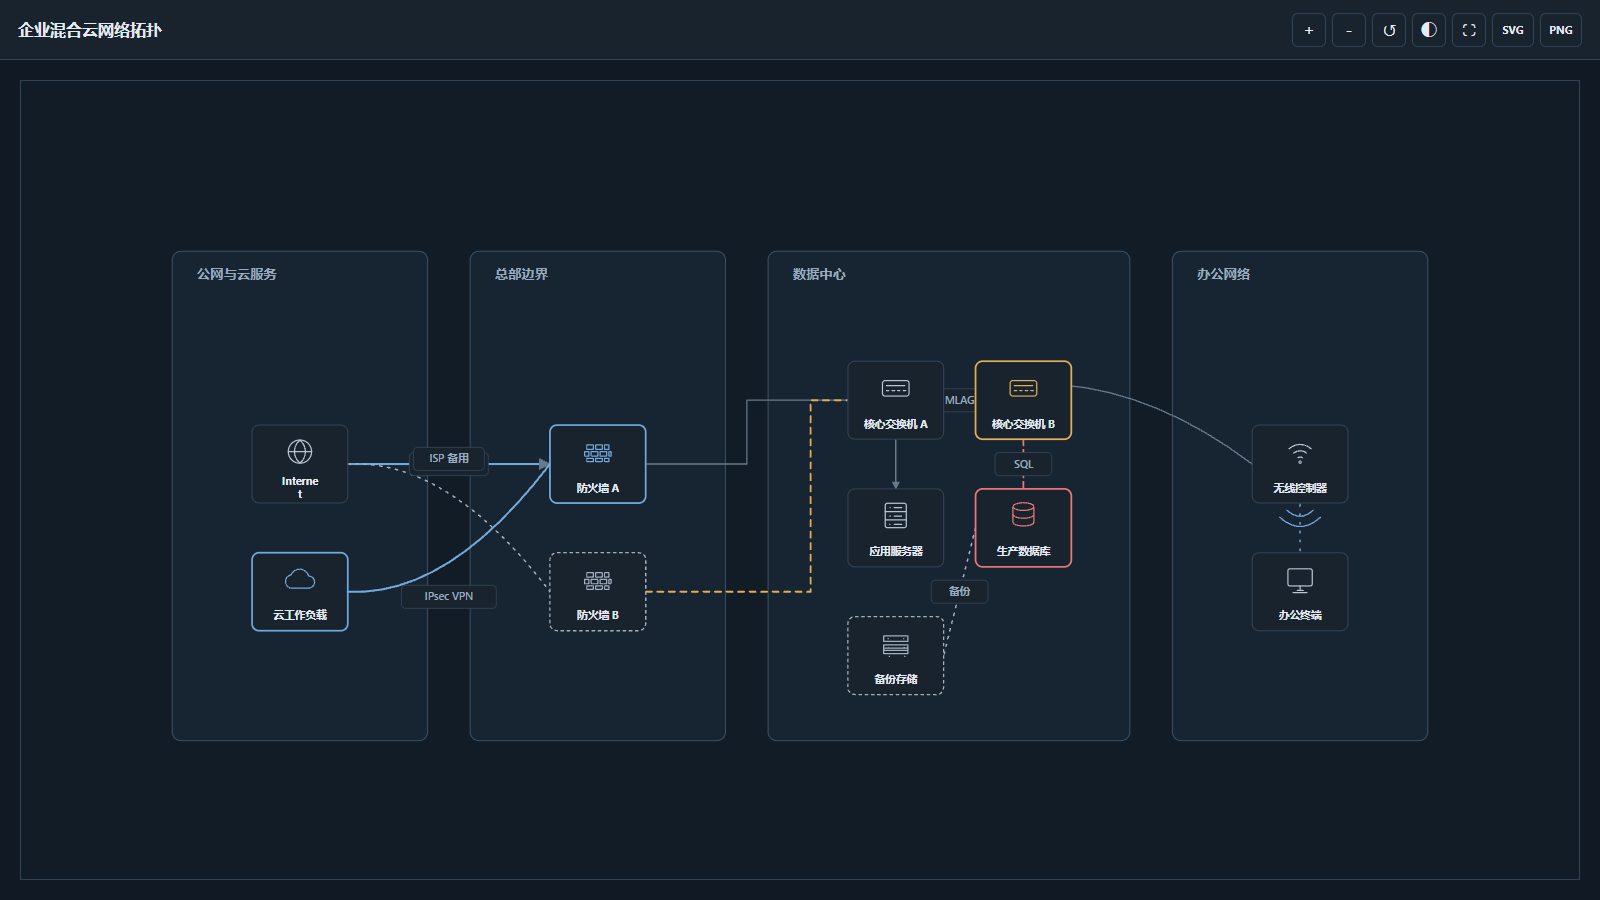
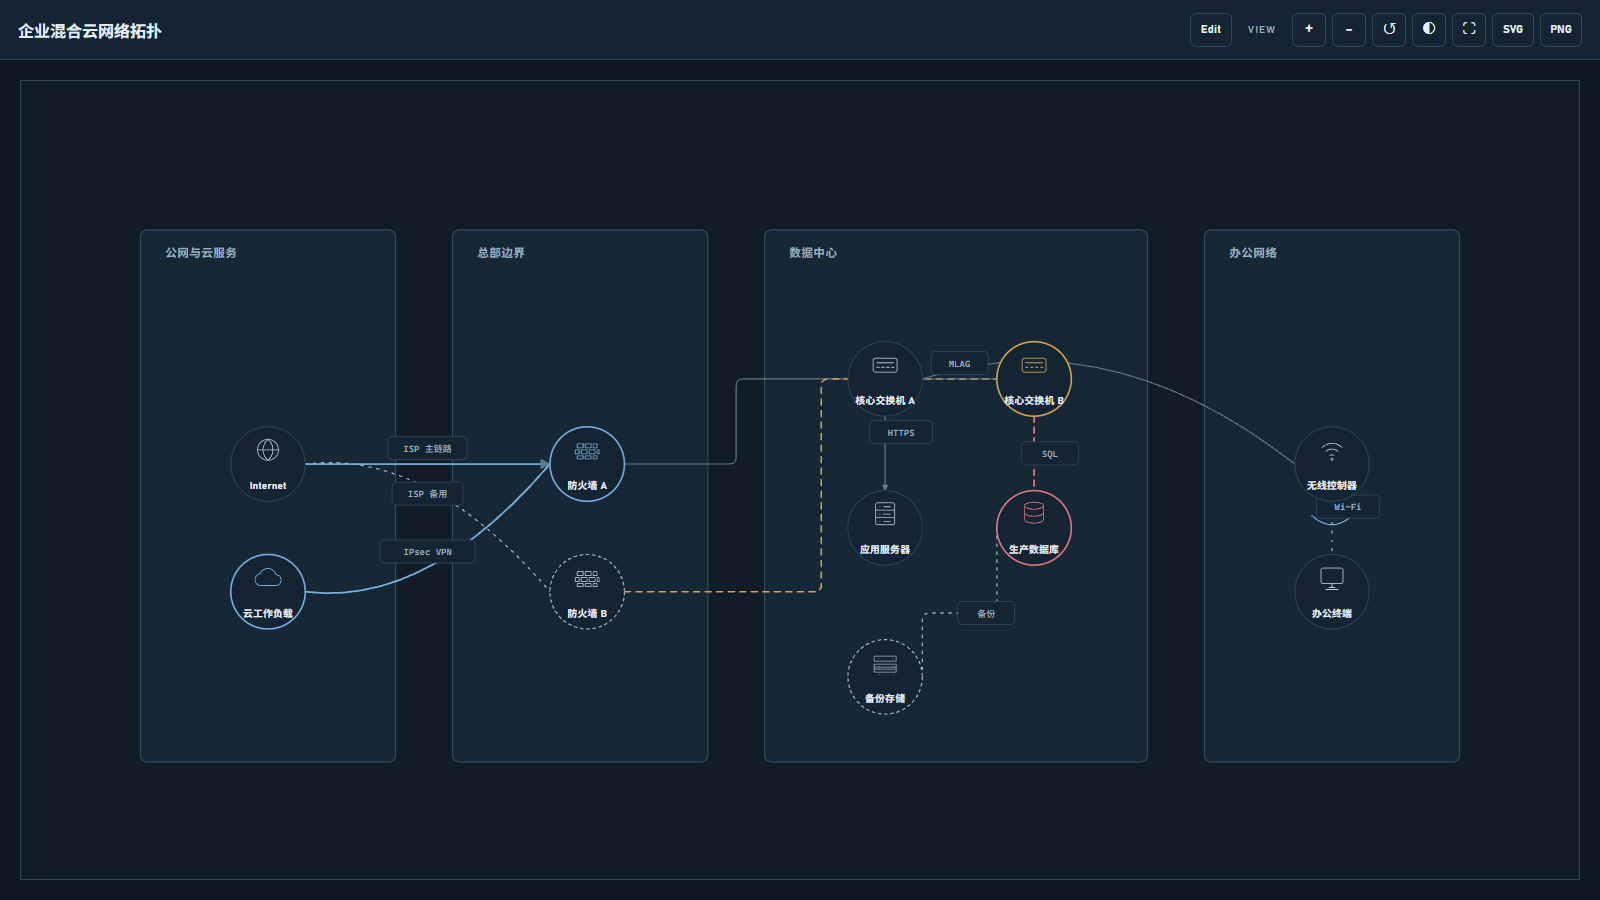
Fix curve label alignment and refresh examples

diff --git a/scripts/render_topology.py b/scripts/render_topology.py
@@ -438,6 +438,14 @@ def path_midpoint(points: list[tuple[float, float]]) -> tuple[float, float]:
     return points[-1]
 
 
+def quadratic_midpoint(start: tuple[float, float], control: tuple[float, float], end: tuple[float, float]) -> tuple[float, float]:
+    """Return the geometric midpoint of a quadratic Bézier connector."""
+    return (
+        0.25 * start[0] + 0.5 * control[0] + 0.25 * end[0],
+        0.25 * start[1] + 0.5 * control[1] + 0.25 * end[1],
+    )
+
+
 def orthogonal_points(start: tuple[float, float], end: tuple[float, float], waypoints: list[dict[str, Any]]) -> list[tuple[float, float]]:
     points = [start]
     for waypoint in waypoints:
@@ -524,7 +532,8 @@ def edge_path(source: dict[str, Any], target: dict[str, Any], style: str, waypoi
         else:
             bow = max(48, min(132, abs(tx - sx) * 0.24 + abs(ty - sy) * 0.16))
             control_x, control_y = mid_x, (sy + ty) / 2 - bow if sy <= ty else (sy + ty) / 2 + bow
-        return f"M {sx:.1f} {sy:.1f} Q {control_x:.1f} {control_y:.1f} {tx:.1f} {ty:.1f}", control_x, control_y, (sx, sy), angle
+        label_x, label_y = quadratic_midpoint((sx, sy), (control_x, control_y), (tx, ty))
+        return f"M {sx:.1f} {sy:.1f} Q {control_x:.1f} {control_y:.1f} {tx:.1f} {ty:.1f}", label_x, label_y, (sx, sy), angle
     if waypoints:
         points = orthogonal_points((sx, sy), (tx, ty), waypoints)
         lx, ly = path_midpoint(points)
@@ -924,8 +933,9 @@ def editor_script() -> str:
       const midX = (start.x + end.x) / 2;
       const bow = Math.max(48, Math.min(132, Math.abs(end.x - start.x) * .24 + Math.abs(end.y - start.y) * .16));
       const control = waypoints[0] || { x: midX, y: (start.y + end.y) / 2 - (start.y <= end.y ? bow : -bow) };
-      const handlePoints = waypoints.length ? waypoints : [quadraticPoint(start, control, end)];
-      return { d: `M ${start.x} ${start.y} Q ${control.x} ${control.y} ${end.x} ${end.y}`, label: control, handlePoints, start, end, angle };
+      const curveMidpoint = quadraticPoint(start, control, end);
+      const handlePoints = waypoints.length ? waypoints : [curveMidpoint];
+      return { d: `M ${start.x} ${start.y} Q ${control.x} ${control.y} ${end.x} ${end.y}`, label: curveMidpoint, handlePoints, start, end, angle };
     }
     if (edge.style === 'straight') {
       const points = [start, ...waypoints, end];
